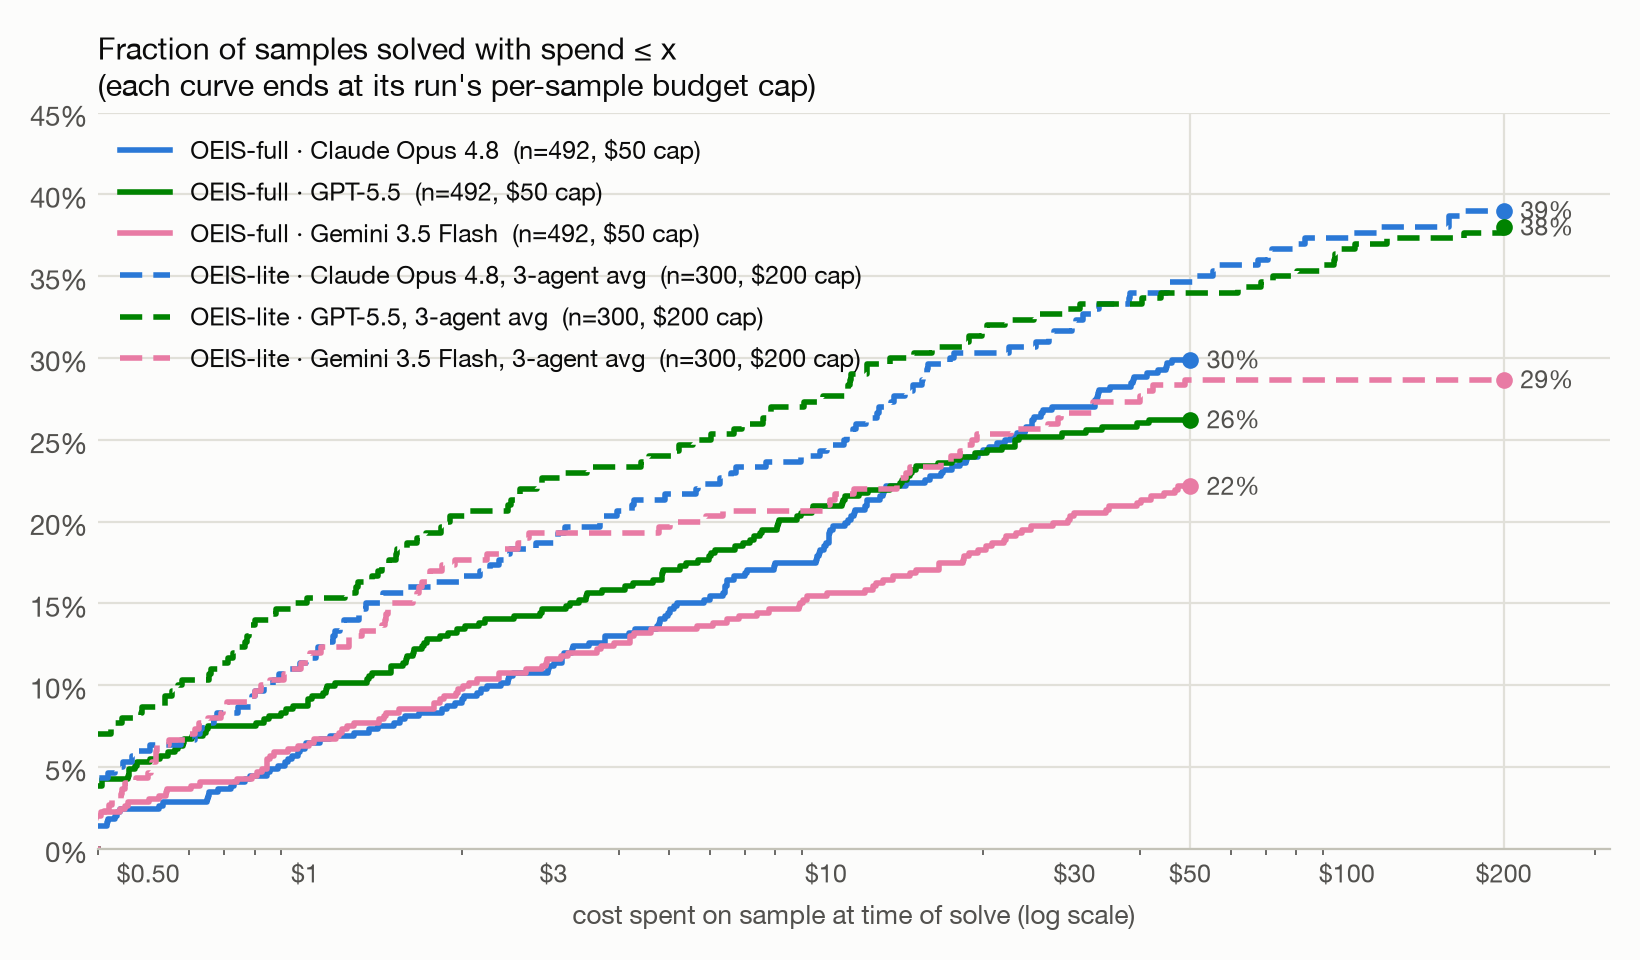
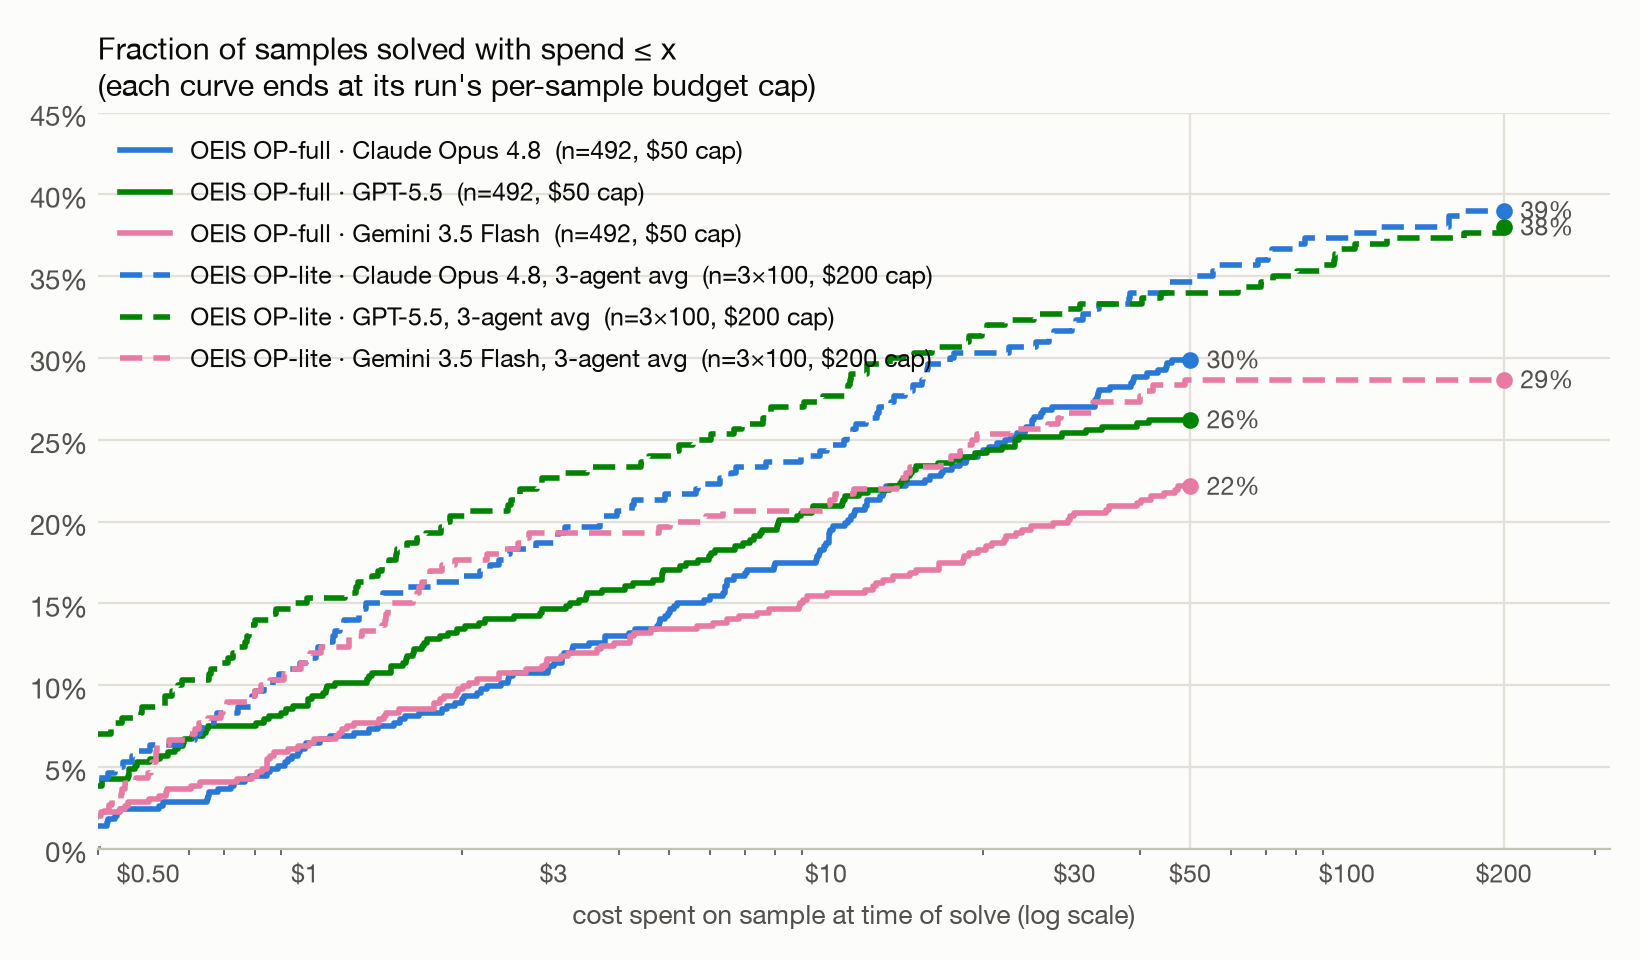
Rename OEIS to OEIS OP in plots; drop shade legend; n=3x100 notation

Changed region(s): [[0.1555, 0.125, 0.5598, 0.4062]]

diff --git a/plots/make_sample_plots.py b/plots/make_sample_plots.py
@@ -143,17 +143,8 @@ for r, s in enumerate(ever):
                     ha="right", va="center", fontsize=6.5,
                     color=SURFACE if luminance(color) < 0.35 else INK)
 ax.set_xlim(0, ncol)
-ax.set_ylim(-1.6, nrow + 1.5)
+ax.set_ylim(-1.6, nrow)
 ax.set_aspect("auto")
-# swatch legend: shading encodes how many of the 3 agent configs solved
-lx = 0.05
-for n, lbl in [(3, "solved by 3/3 agents"), (2, "2/3"), (1, "1/3"), (0, "0/3")]:
-    swatch = NEUTRAL if n == 0 else mix(SERIES["ant"], SHADE[n])
-    ax.add_patch(Rectangle((lx, nrow + 0.45), 0.09, 0.6,
-                           facecolor=swatch, edgecolor="none"))
-    ax.text(lx + 0.13, nrow + 0.75, lbl, ha="left", va="center",
-            fontsize=7.5, color=INK2)
-    lx += 0.13 + 0.042 * len(lbl) + 0.1
 ax.set_yticks([nrow - 1 - r + 0.5 for r in range(nrow)])
 ax.set_yticklabels(labels, fontsize=6.8, color=INK2)
 ax.set_xticks([c + 0.5 for c in range(ncol)])
@@ -165,10 +156,10 @@ ax.text(ncol / 2, -1.0,
 for side in ("top", "right", "left", "bottom"):
     ax.spines[side].set_visible(False)
 ax.tick_params(length=0)
-ax.set_title(f"OEIS-lite — which conjectures each model solved\n"
-             f"({len(ever)} conjectures solved by ≥1 run; cell label = mean cost\n"
-             f"of the solving runs; rows sorted by mean solve cost;\n"
-             f"$200 budget/sample)",
+ax.set_title(f"OEIS OP-lite — which conjectures each model solved\n"
+             f"({len(ever)} conjectures solved by ≥1 run; paler shade = solved\n"
+             f"by fewer of the 3 agent configs; cell label = mean cost of the\n"
+             f"solving runs; rows sorted by mean solve cost; $200 budget/sample)",
              fontsize=10.5, loc="left", color=INK, pad=14)
 fig.tight_layout()
 fig.savefig(OUT / "solve_matrix.png", dpi=200, bbox_inches="tight")
@@ -177,11 +168,12 @@ print("wrote", OUT / "solve_matrix.png")
 # === plot 2: solved fraction vs spend ======================================
 fig, ax = plt.subplots(figsize=(8.2, 4.8))
 # full runs individually; lite runs pooled over the 3 agent configs per model
-curves = [([k], f"OEIS-full · {MODEL_LABELS[k[3]]}", "-") for k in full_keys]
-curves += [(lite_by_model[p], f"OEIS-lite · {MODEL_LABELS[p]}, 3-agent avg", (0, (4, 2)))
+curves = [([k], f"OEIS OP-full · {MODEL_LABELS[k[3]]}", "-") for k in full_keys]
+curves += [(lite_by_model[p], f"OEIS OP-lite · {MODEL_LABELS[p]}, 3-agent avg", (0, (4, 2)))
            for p in PROVIDERS if lite_by_model[p]]
 for keys, label, style in curves:
     n = sum(len(samples[k]) for k in keys)
+    n_txt = f"{len(keys)}×{len(samples[keys[0]])}" if len(keys) > 1 else f"{n}"
     costs = sorted(max(r["cost"], 0.01)
                    for k in keys for r in samples[k].values() if r["solved"])
     xs, ys = [0.4], [0.0]
@@ -193,7 +185,7 @@ for keys, label, style in curves:
     ys.append(ys[-1])
     color = SERIES[keys[0][3]]
     ax.plot(xs, ys, color=color, linestyle=style, linewidth=2,
-            label=f"{label}  (n={n}, ${cap} cap)")
+            label=f"{label}  (n={n_txt}, ${cap} cap)")
     ax.plot([cap], [ys[-1]], marker="o", ms=5, color=color)
     ax.annotate(f"{ys[-1]:.0%}", (cap, ys[-1]), textcoords="offset points",
                 xytext=(6, -3), fontsize=9, color=INK2)
@@ -224,8 +216,8 @@ print("wrote", OUT / "solve_cost_curves.png")
 # blocks of rows: lite pooled over the 3 agent configs per model, full runs as-is
 lite_rows = [(lite_by_model[p], MODEL_LABELS[p]) for p in PROVIDERS if lite_by_model[p]]
 full_rows = [([k], MODEL_LABELS[k[3]]) for k in full_keys]
-blocks = [("OEIS-lite · $200 cap · pooled over base/deep/lit agent runs", lite_rows),
-          ("OEIS-full · $50 cap", full_rows)]
+blocks = [("OEIS OP-lite · $200 cap · pooled over base/deep/lit agent runs", lite_rows),
+          ("OEIS OP-full · $50 cap", full_rows)]
 row_defs = lite_rows + full_rows
 
 def pooled_shares(keys, extract):

diff --git a/plots/make_plots.py b/plots/make_plots.py
@@ -87,7 +87,7 @@ for j, variant in enumerate(variants):
 ax1.set_xticks(range(len(providers)))
 ax1.set_xticklabels([MODEL_LABELS[p] for p in providers], fontsize=10.5)
 style_axis(ax1)
-ax1.set_title("OEIS-lite — accuracy by model and scaffold variant\n"
+ax1.set_title("OEIS OP-lite — accuracy by model and scaffold variant\n"
               "(n=100 conjectures, $200 budget/sample, ±1 s.e.)",
               fontsize=11, loc="left", color=INK)
 ax1.legend(title="scaffold", frameon=False, fontsize=9.5, title_fontsize=9.5,
@@ -118,7 +118,7 @@ ax2.set_xticks(list(xs))
 ax2.set_xticklabels(labels, fontsize=9.5)
 style_axis(ax2)
 n_full = table[("full", "base", full_provs[0])][2]
-ax2.set_title(f"OEIS-full — accuracy\n(n={n_full}, $50 budget/sample, ±1 s.e.)",
+ax2.set_title(f"OEIS OP-full — accuracy\n(n={n_full}, $50 budget/sample, ±1 s.e.)",
               fontsize=11, loc="left", color=INK)
 missing = [p for p in providers if ("full", "base", p) not in table]
 if missing:
